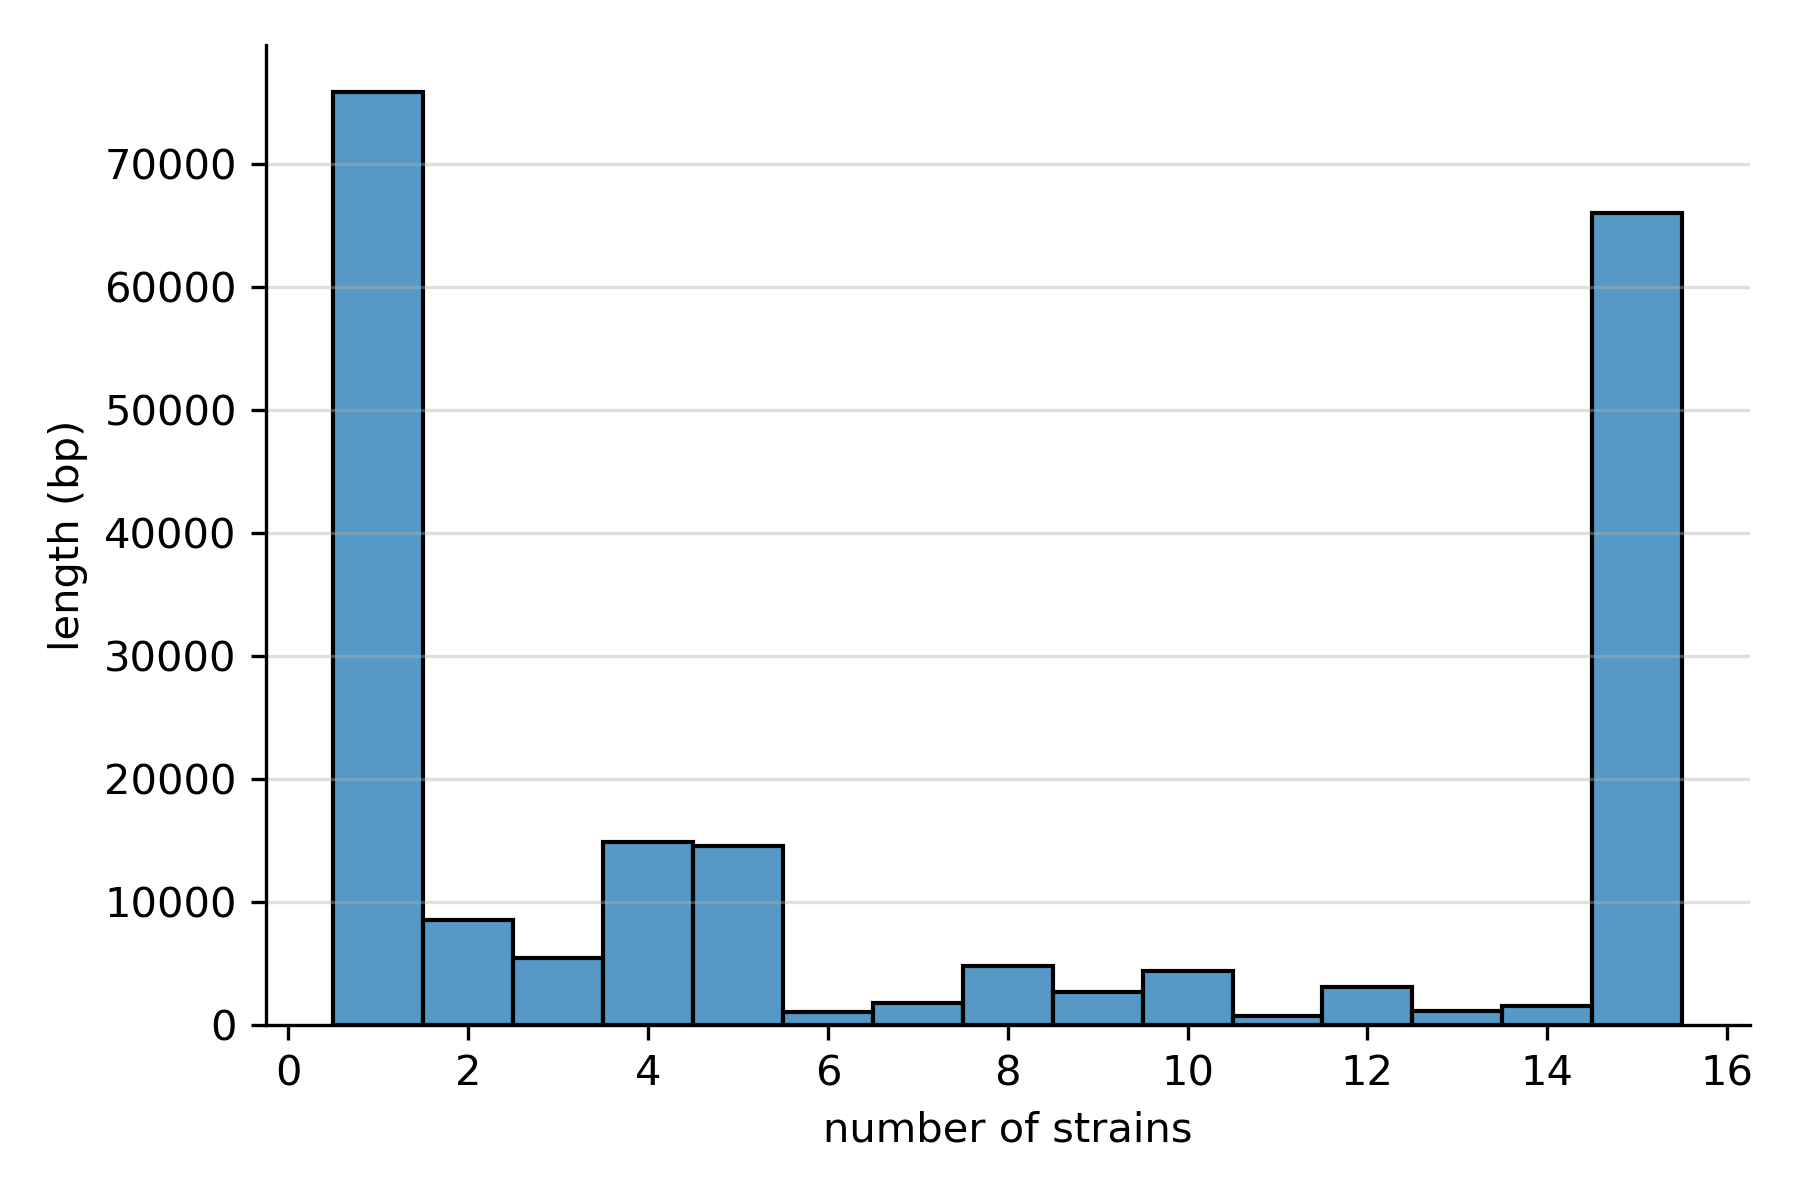
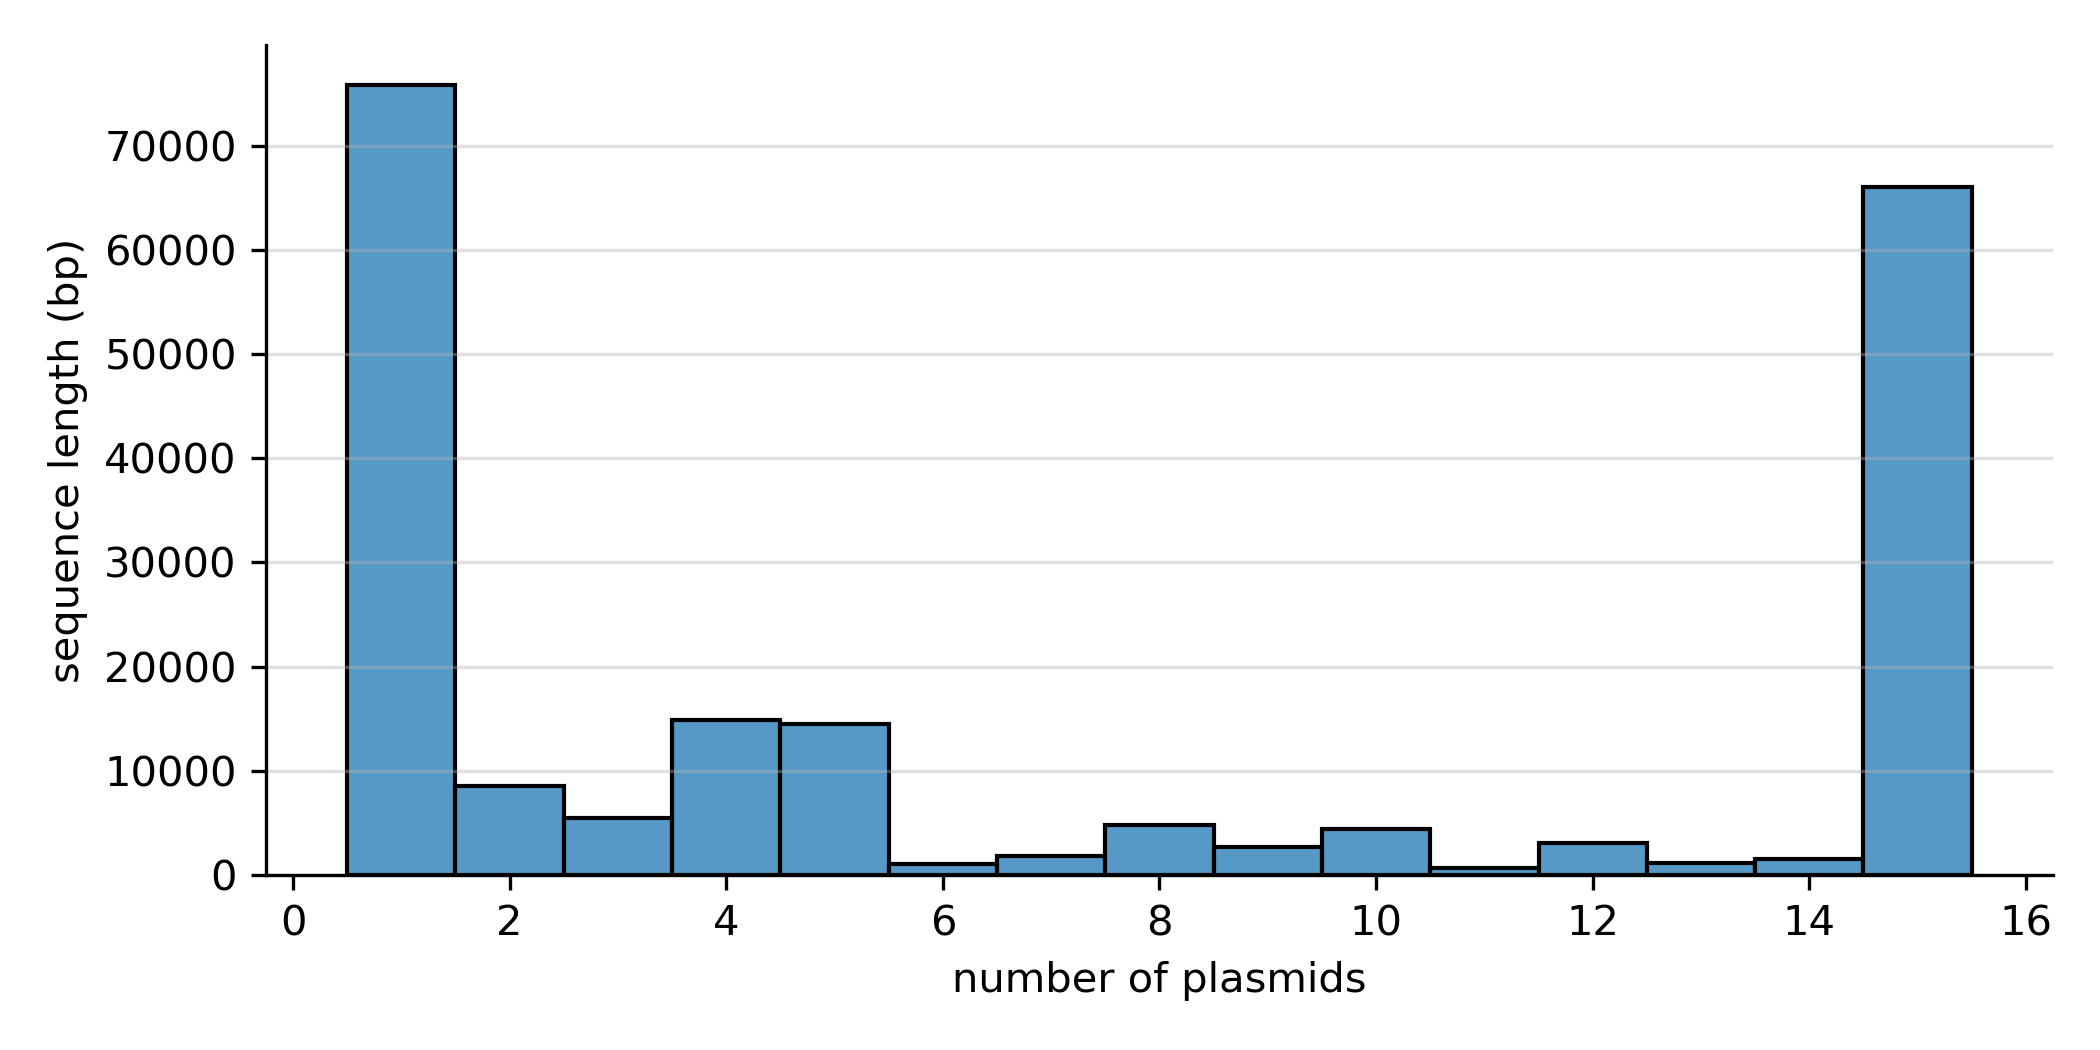
docs: tutorial 3 update

Changed region(s): [[0.0, 0.0305, 0.9956, 0.9752], [0.0, 0.2743, 0.0311, 0.3048]]

diff --git a/docs/docs/tutorial3.md b/docs/docs/tutorial3.md
@@ -61,13 +61,93 @@ AlignIO.write(aln, "aln.fa", "fasta")
     mafft seqs.fa > aln.fa
     ```
 
+## core genome alignment
+
+Other than the alignment for single blocks, we can also extract the alignment of the full core genome, i.e. the concatenated alignment of all single-copy core blocks. Pangraph has a [dedicated export subcommand](TODO) for this:
+
+```bash
+pangraph export core-genome --guide-strain RCS34_p1 plasmids.json > core_aln.fa
+```
+
+Alternatively pypangraph provides the following method:
+
+```python
+core_aln = graph.core_genome_alignment(guide_strain="RCS34_p1")
+print(core_aln)
+# Alignment with 15 rows and 64989 columns
+# GTACCGGATTGGCACGAAAGTATTGCCCCTGTATTATCGCGGCC...GGG RCS33_p1
+# GTACCGGATTGGCACGAAAGTATTGCCCCTGTATTATCGCGGCC...GGG RCS64_p2
+# ...
+```
+
+The **guide strain** argument is the name of the path that is used to determine the order of the blocks in the alignment.
+
 
 ## sequence divergence
 
-- consensus frequency along the alignment
-- pairwise sequence divergence
+From the core-genome alignment we can quantify the sequence divergence in our dataset.
 
-## core genome alignment
+We can start by quantifying how the amount of divergence changes along the alignment. One simple way is to quantify the number of polymorphic sites along the alignment.
+
+```python
+import numpy as np
+# turn the alignment in a numpy matrix
+A = np.array(core_aln)
+
+# exclude sites with gaps
+non_gap = np.all(A != "-", axis=0)
+A = A[:, non_gap]
+
+# whether a site is polymorphic
+is_polymorphic = np.any(A != A[0, :], axis=0)
+```
+
+We can then plot the histogram of polymorphic sites along the alignment:
+
+```python
+import seaborn as sns
+bin_size = 500
+x = np.arange(len(is_polymorphic))
+weights = is_polymorphic.astype(int) / bin_size
+sns.histplot(x=x, weights=weights, binwidth=bin_size)
+```
+
+![alignment divergence](./assets/aln_divergence.png)
+
+Divergence varies along the alignment, with on average 5% of sites being polymorphic.
+
+For every pair of sequences, we can also quantify the pairwise sequence divergence:
+
+```python
+import pandas as pd
+import itertools as itt
+
+# calculate pairwise divergence matrix
+plasmids = [record.id for record in core_aln]
+div = {}
+for i, j in itt.combinations(range(len(plasmids)), 2):
+    seq_i, seq_j = A[i], A[j]
+    d = np.sum(seq_i != seq_j) / A.shape[1]
+    div[(plasmids[i], plasmids[j])] = d
+    div[(plasmids[j], plasmids[i])] = d
+div = pd.Series(div, name="divergence").unstack().fillna(0)
+print(div)
+#            RCS100_p1  RCS29_p1  RCS33_p1  ...
+# RCS100_p1   0.000000  0.021943  0.021943  ...
+# RCS29_p1    0.021943  0.000000  0.000000  ...
+# RCS33_p1    0.021943  0.000000  0.000000  ...
+# ...         ...       ...       ...       ...
+```
+
+The average pairwise divergence on the core-genome is 1.7%, but it is highly variable between pairs of plasmids. By visualizing the divergence matrix we can clearly see the presence of different clades, with very low within-clade divergence and high between-clade divergence:
+
+```python
+sns.clustermap(div)
+```
+
+![pairwise divergence](./assets/divergence_matrix.png)
 
 ## core genome tree
 
+!!! warning
+    TODO

diff --git a/docs/docs/tutorial2.md b/docs/docs/tutorial2.md
@@ -156,7 +156,8 @@ The optimal ordering of the genomes was determined with hierarchical clustering 
 
     # Perform hierarchical clustering
     linkage_matrix = sch.linkage(dist_df, method="ward")
-    order = sch.leaves_list(linkage_matrix)
+    ordered_indices = sch.leaves_list(linkage_matrix)
+    order = dist_df.index[ordered_indices]
     ```
 
 This matrix shows that there are plasmid clusters that have little within-cluster accessory genome, while plasmids from different clusters show several tens of kbps of accessory genome differences.
